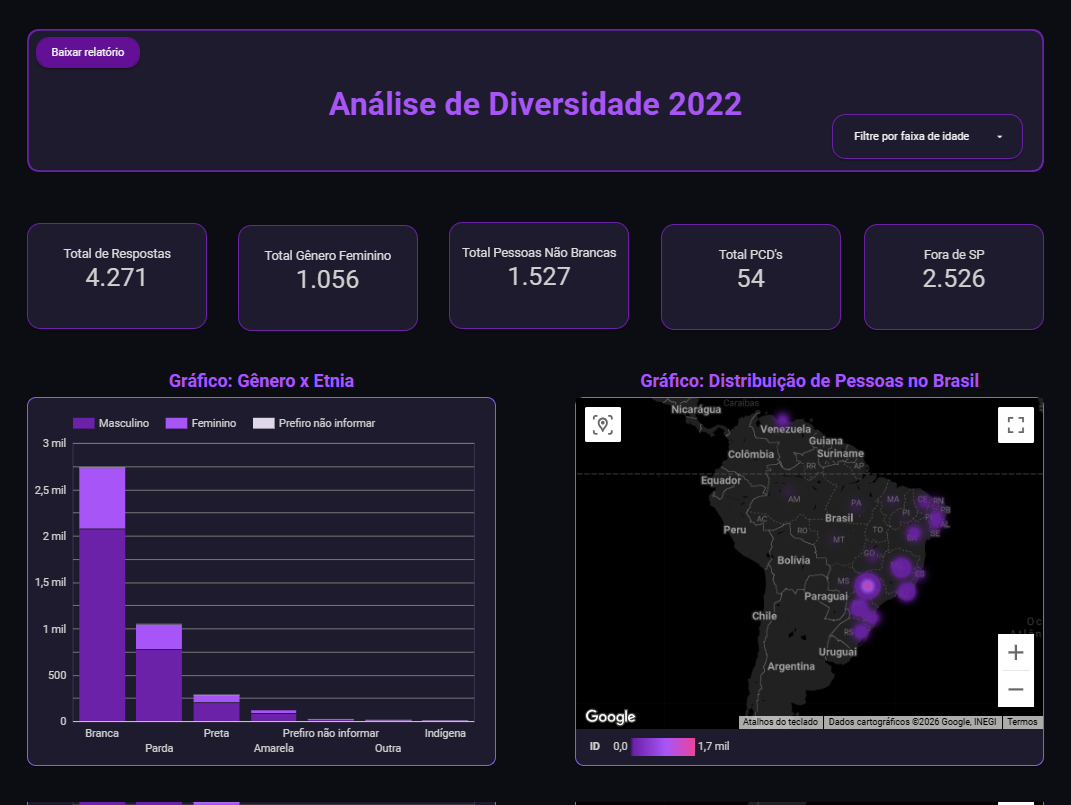
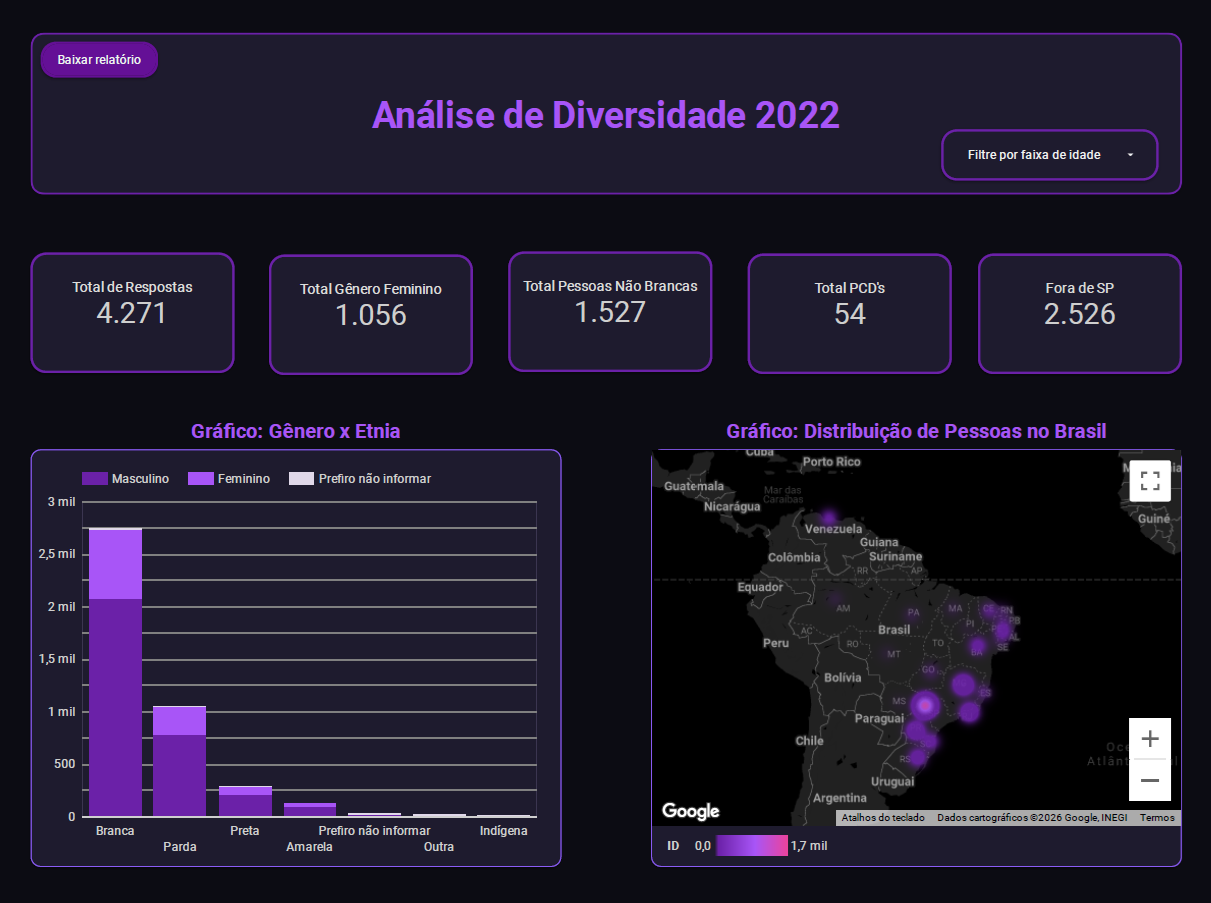
ajusta prévia da imagem do dashboard

diff --git a/README.md b/README.md
@@ -155,9 +155,9 @@ O dashboard final foi desenvolvido no Looker Studio/Data Studio a partir da base
 
 ### Prévia do Dashboard
 
-![Imagem do dashboard](./dashboard_studio/dashboard-diversidade-1.png)
-![Imagem do dashboard](./dashboard_studio/dashboard-diversidade-2.png)
-![Imagem do dashboard](./dashboard_studio/dashboard-diversidade-3.png)
+![Dashboard](./dashboard_studio/dashboard-diversidade-1.png)
+![Dashboard](./dashboard_studio/dashboard-diversidade-2.png)
+![Dashboard](./dashboard_studio/dashboard-diversidade-3.png)
 
 ### Versão interativa
 
